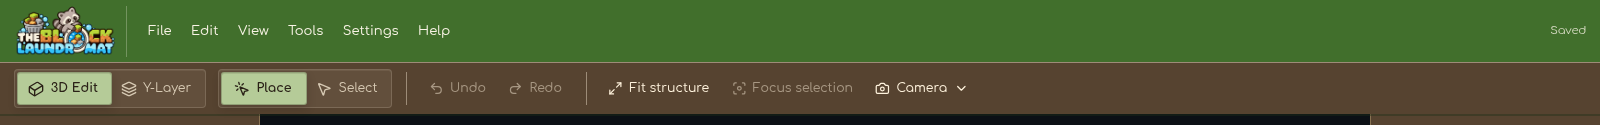
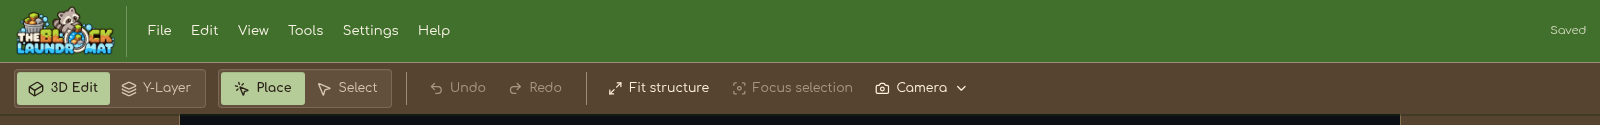
style(editor): unify toolbar choice tracks
Subdue the idle option within each shared track while preserving contrast, keyboard selection, and pointer dragging across all themes.

diff --git a/Frontend/src/app/features/editor/shell/editor-chrome.component.scss b/Frontend/src/app/features/editor/shell/editor-chrome.component.scss
@@ -132,7 +132,7 @@
   border: 1px solid color-mix(in srgb, var(--workspace-toolbar-text) 16%, transparent);
   border-radius: var(--radius-md);
   background: color-mix(in srgb, var(--workspace-toolbar-text) 7%, var(--workspace-toolbar-bg));
-  box-shadow: inset 0 1px 0 color-mix(in srgb, var(--workspace-toolbar-text) 8%, transparent);
+  box-shadow: inset 0 1px 0 color-mix(in srgb, var(--workspace-toolbar-text) 5%, transparent);
   cursor: grab;
   touch-action: none;
   user-select: none;
@@ -159,12 +159,10 @@
   left: var(--segment-inset);
   right: auto;
   width: calc((100% - 0.28rem) / 2);
-  border: 1px solid color-mix(in srgb, var(--button-selected-text) 26%, transparent);
+  border: 0;
   border-radius: max(2px, calc(var(--radius-md) - 1px));
   background: var(--button-selected-bg);
-  box-shadow:
-    inset 0 1px 0 color-mix(in srgb, var(--button-selected-text) 10%, transparent),
-    var(--shadow-control-raised);
+  box-shadow: inset 0 1px 0 color-mix(in srgb, var(--button-selected-text) 10%, transparent);
   content: '';
   pointer-events: none;
   transition:
@@ -187,7 +185,11 @@
   border: 1px solid transparent;
   border-radius: 0;
   background: transparent;
-  color: color-mix(in srgb, var(--workspace-toolbar-text) 76%, var(--workspace-toolbar-bg));
+  color: color-mix(
+    in srgb,
+    var(--workspace-toolbar-text) var(--workspace-segment-idle-text-mix),
+    var(--workspace-toolbar-bg)
+  );
   box-shadow: none;
   font-size: 0.78rem;
   white-space: nowrap;
@@ -203,7 +205,7 @@
 }
 
 .ui-button--segmented[aria-checked='true'] {
-  color: var(--button-selected-text);
+  color: var(--workspace-text-primary);
   background: transparent;
   box-shadow: none;
   font-weight: 700;
@@ -349,9 +351,7 @@
     0 2px 0 color-mix(in srgb, #1e3019 40%, transparent);
 }
 
-:host-context([data-theme='raccoon']) .menu-popover,
-:host-context([data-theme='raccoon']) .mode-switch,
-:host-context([data-theme='raccoon']) .tool-switch {
+:host-context([data-theme='raccoon']) .menu-popover {
   box-shadow: var(--shadow-control-raised);
 }
 

diff --git a/Frontend/src/styles.scss b/Frontend/src/styles.scss
@@ -254,6 +254,7 @@
 /* Workspace V2 palette. The Project Screen keeps its independent root tokens. */
 :root[data-theme='craft'] {
   --workspace-color-scheme: light;
+  --workspace-segment-idle-text-mix: 75%;
   --workspace-app-bg: #35372f;
   --workspace-header-bg: #416f2c;
   --workspace-toolbar-bg: #564330;
@@ -312,6 +313,7 @@
 }
 :root[data-theme='light'] {
   --workspace-color-scheme: light;
+  --workspace-segment-idle-text-mix: 70%;
   --workspace-app-bg: #f7f7f6;
   --workspace-header-bg: #ffffff;
   --workspace-toolbar-bg: #f1f1f0;
@@ -354,6 +356,7 @@
 }
 :root[data-theme='raccoon'] {
   --workspace-color-scheme: dark;
+  --workspace-segment-idle-text-mix: 63%;
   --workspace-app-bg: #181a1c;
   --workspace-header-bg: #202326;
   --workspace-toolbar-bg: #292d30;
@@ -412,6 +415,7 @@
 }
 :root[data-theme='dark'] {
   --workspace-color-scheme: dark;
+  --workspace-segment-idle-text-mix: 56%;
   --workspace-app-bg: #08090c;
   --workspace-header-bg: #050608;
   --workspace-toolbar-bg: #0f1115;

diff --git a/Docs/design/workspace-renovation/README.md b/Docs/design/workspace-renovation/README.md
@@ -100,7 +100,7 @@ Workspace action buttons keep their visible labels and use Lucide icons to reinf
 
 In the 2026-10-16 Chrome pass, the left tab indicator was observed moving through intermediate transforms during its 180 ms spring transition. ArrowRight changed the actual selected tab and focus target; focus showed the visible outline, while hovering an unselected tab used its separate hover surface. English and Vietnamese labels were measured in-browser and fit without horizontal clipping. The Settings popover's 150 ms enter animation and check feedback were observed as running CSS animations. At 780 x 437 and 640 x 520, the responsive drawer opened with all tab labels and no document horizontal overflow.
 
-The 3D/Y-Layer and Place/Select pairs now share one track each. Their single selected surface slides between equal-width options, while the selected option's text weight and semantic foreground remain distinct from the muted idle option. Browser clicks in Minecraft, Raccoon, Light, and Dark updated exactly one `aria-pressed` option per group; sampled transforms moved through intermediate values before reaching the other segment. Selected fill/text contrast measured 9.00:1 (Minecraft), 5.79:1 (Raccoon), 13.32:1 (Light), and 11.48:1 (Dark). The reduced-motion rule continues to shorten the shared UI transition.
+The 3D/Y-Layer and Place/Select pairs share one continuous track each, with a flush sliding selected surface instead of two raised button faces. The unselected option is visually subdued while keeping at least 4.5:1 text contrast against its track: 4.68:1 (Minecraft), 4.69:1 (Raccoon), 4.93:1 (Light), and 4.71:1 (Dark), measured from resolved Chrome colors. Browser clicks update exactly one `aria-checked` option per group; pointer dragging moves the selected surface between equal-width options. Reduced-motion preferences still disable the transition.
 
 Raccoon Block Library rows use one uniform base surface. There is no `nth-child(odd)`/`nth-child(even)` card color rule; selected cards still use the same semantic selected fill, border and check indicator as the other themes, while Raccoon's rounded geometry and inset/raised surfaces provide its softer treatment.
 
